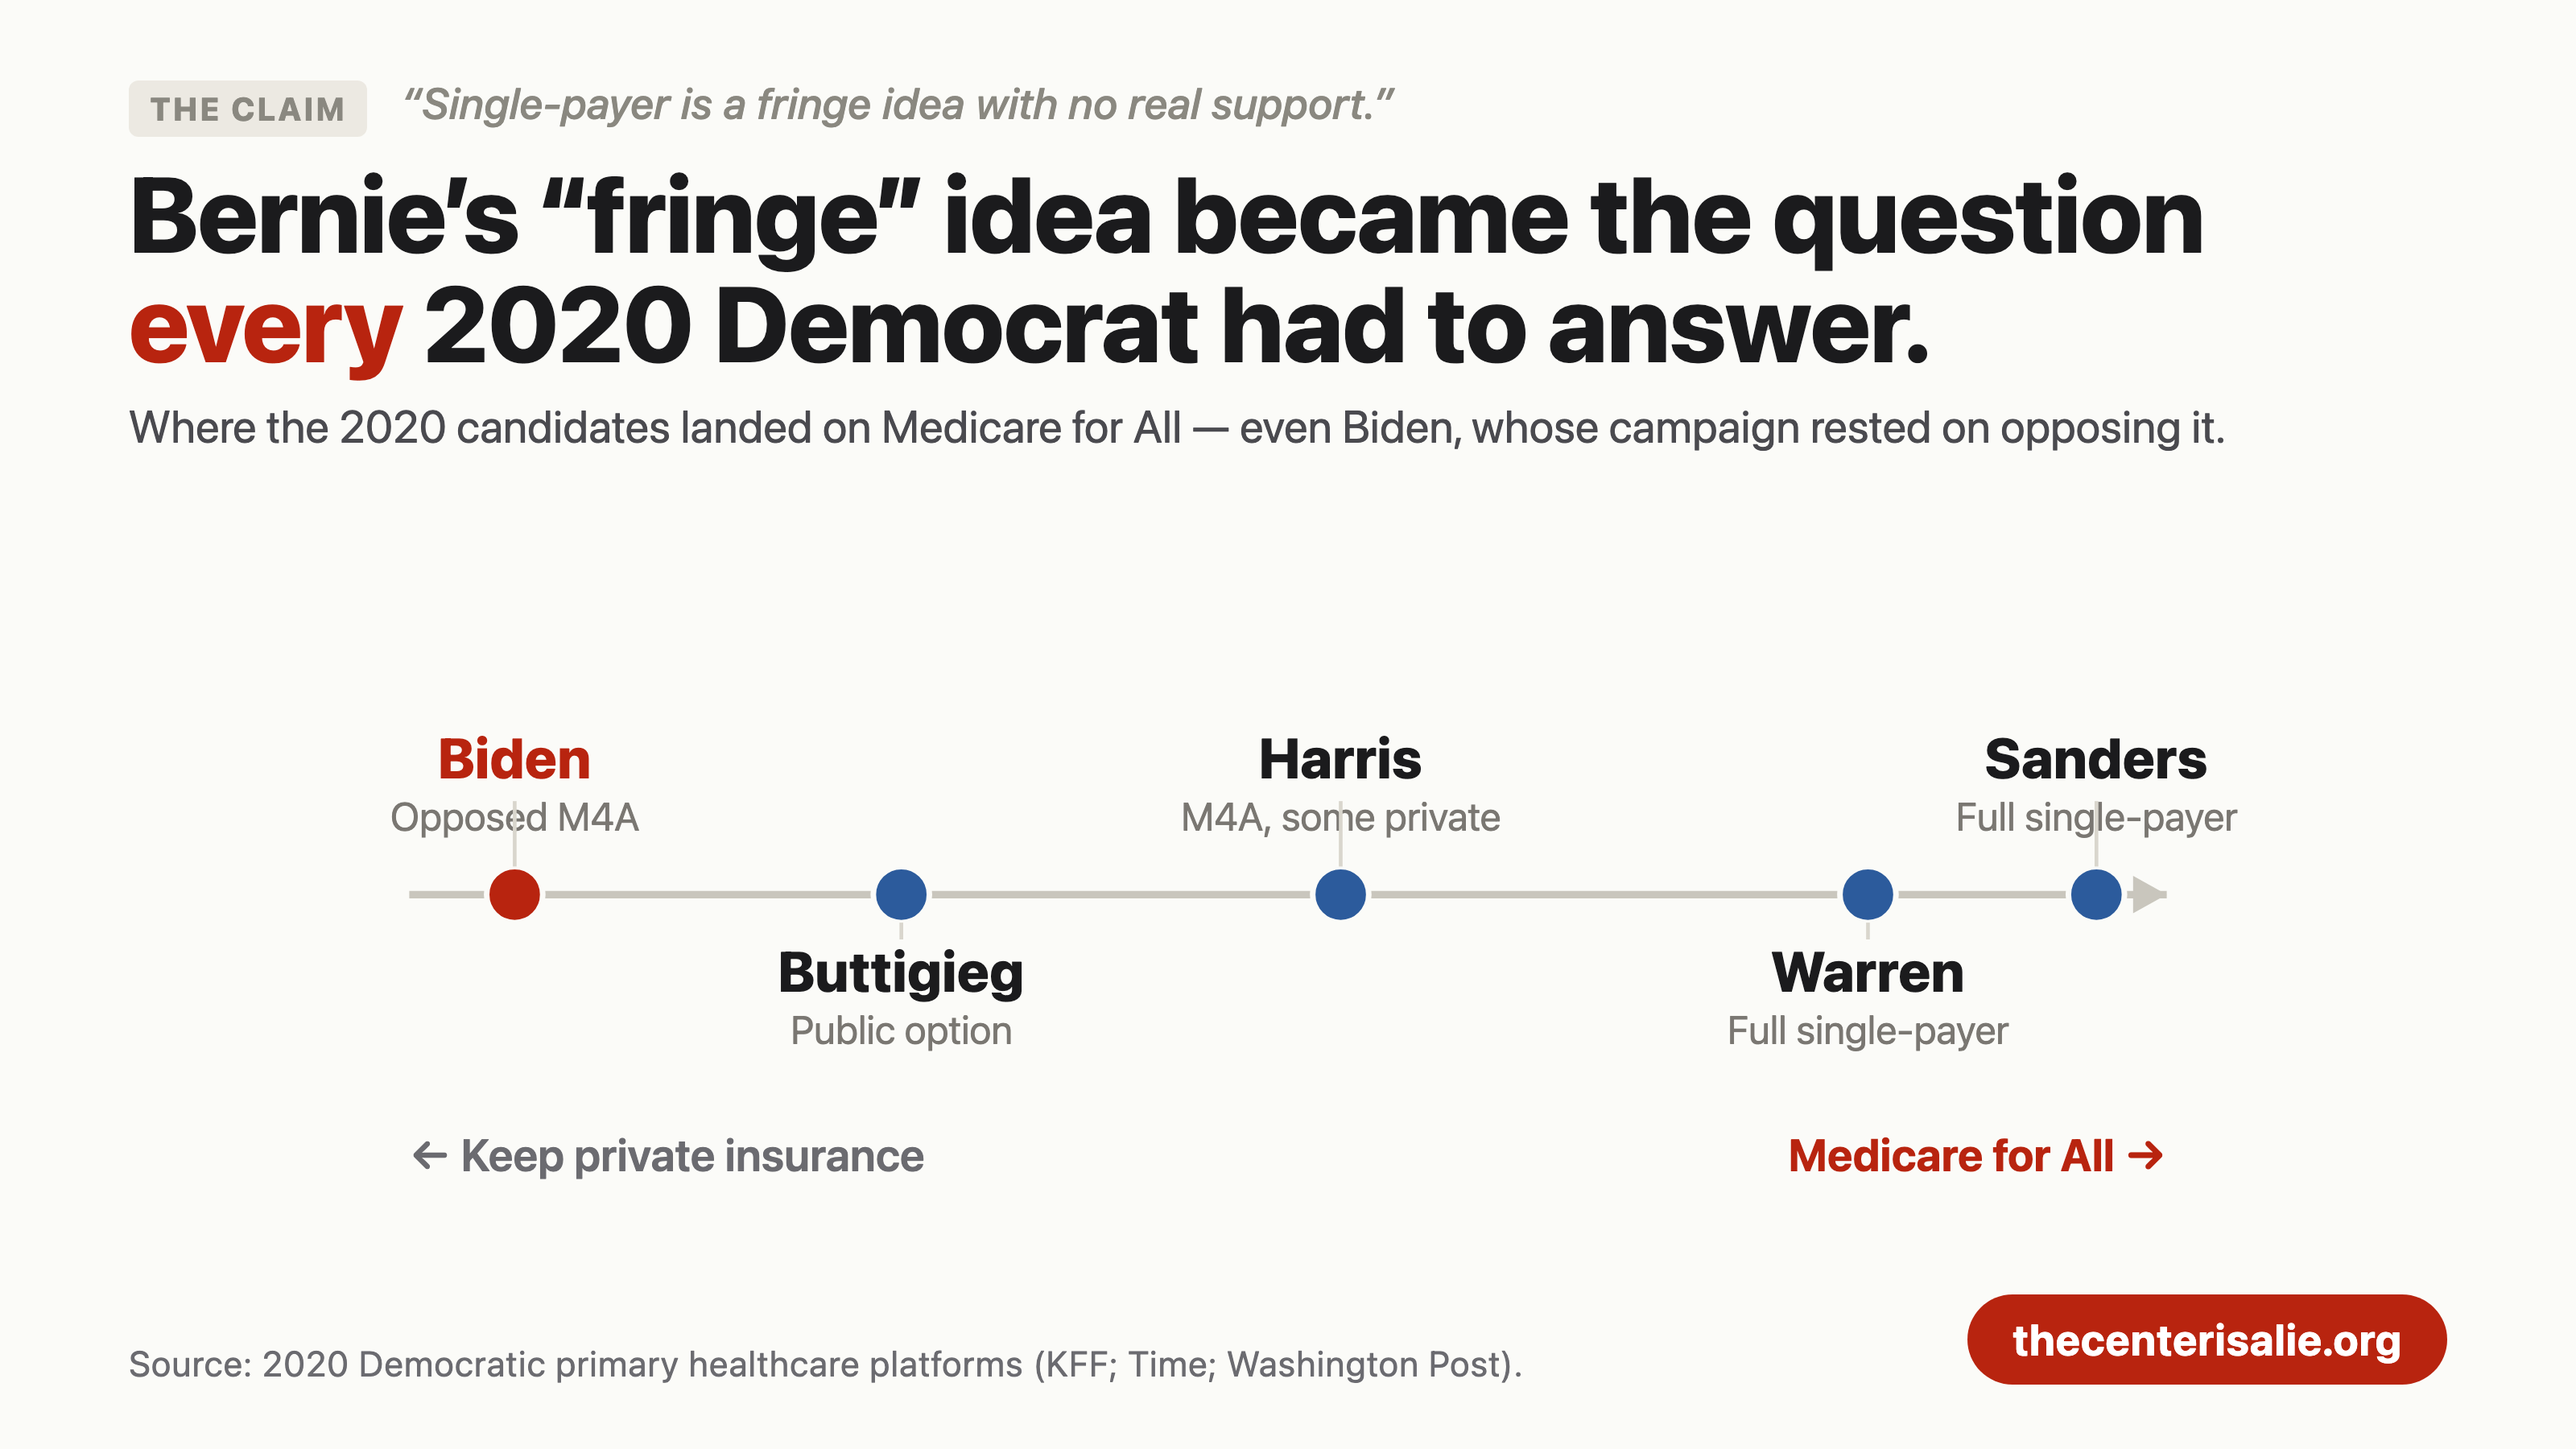
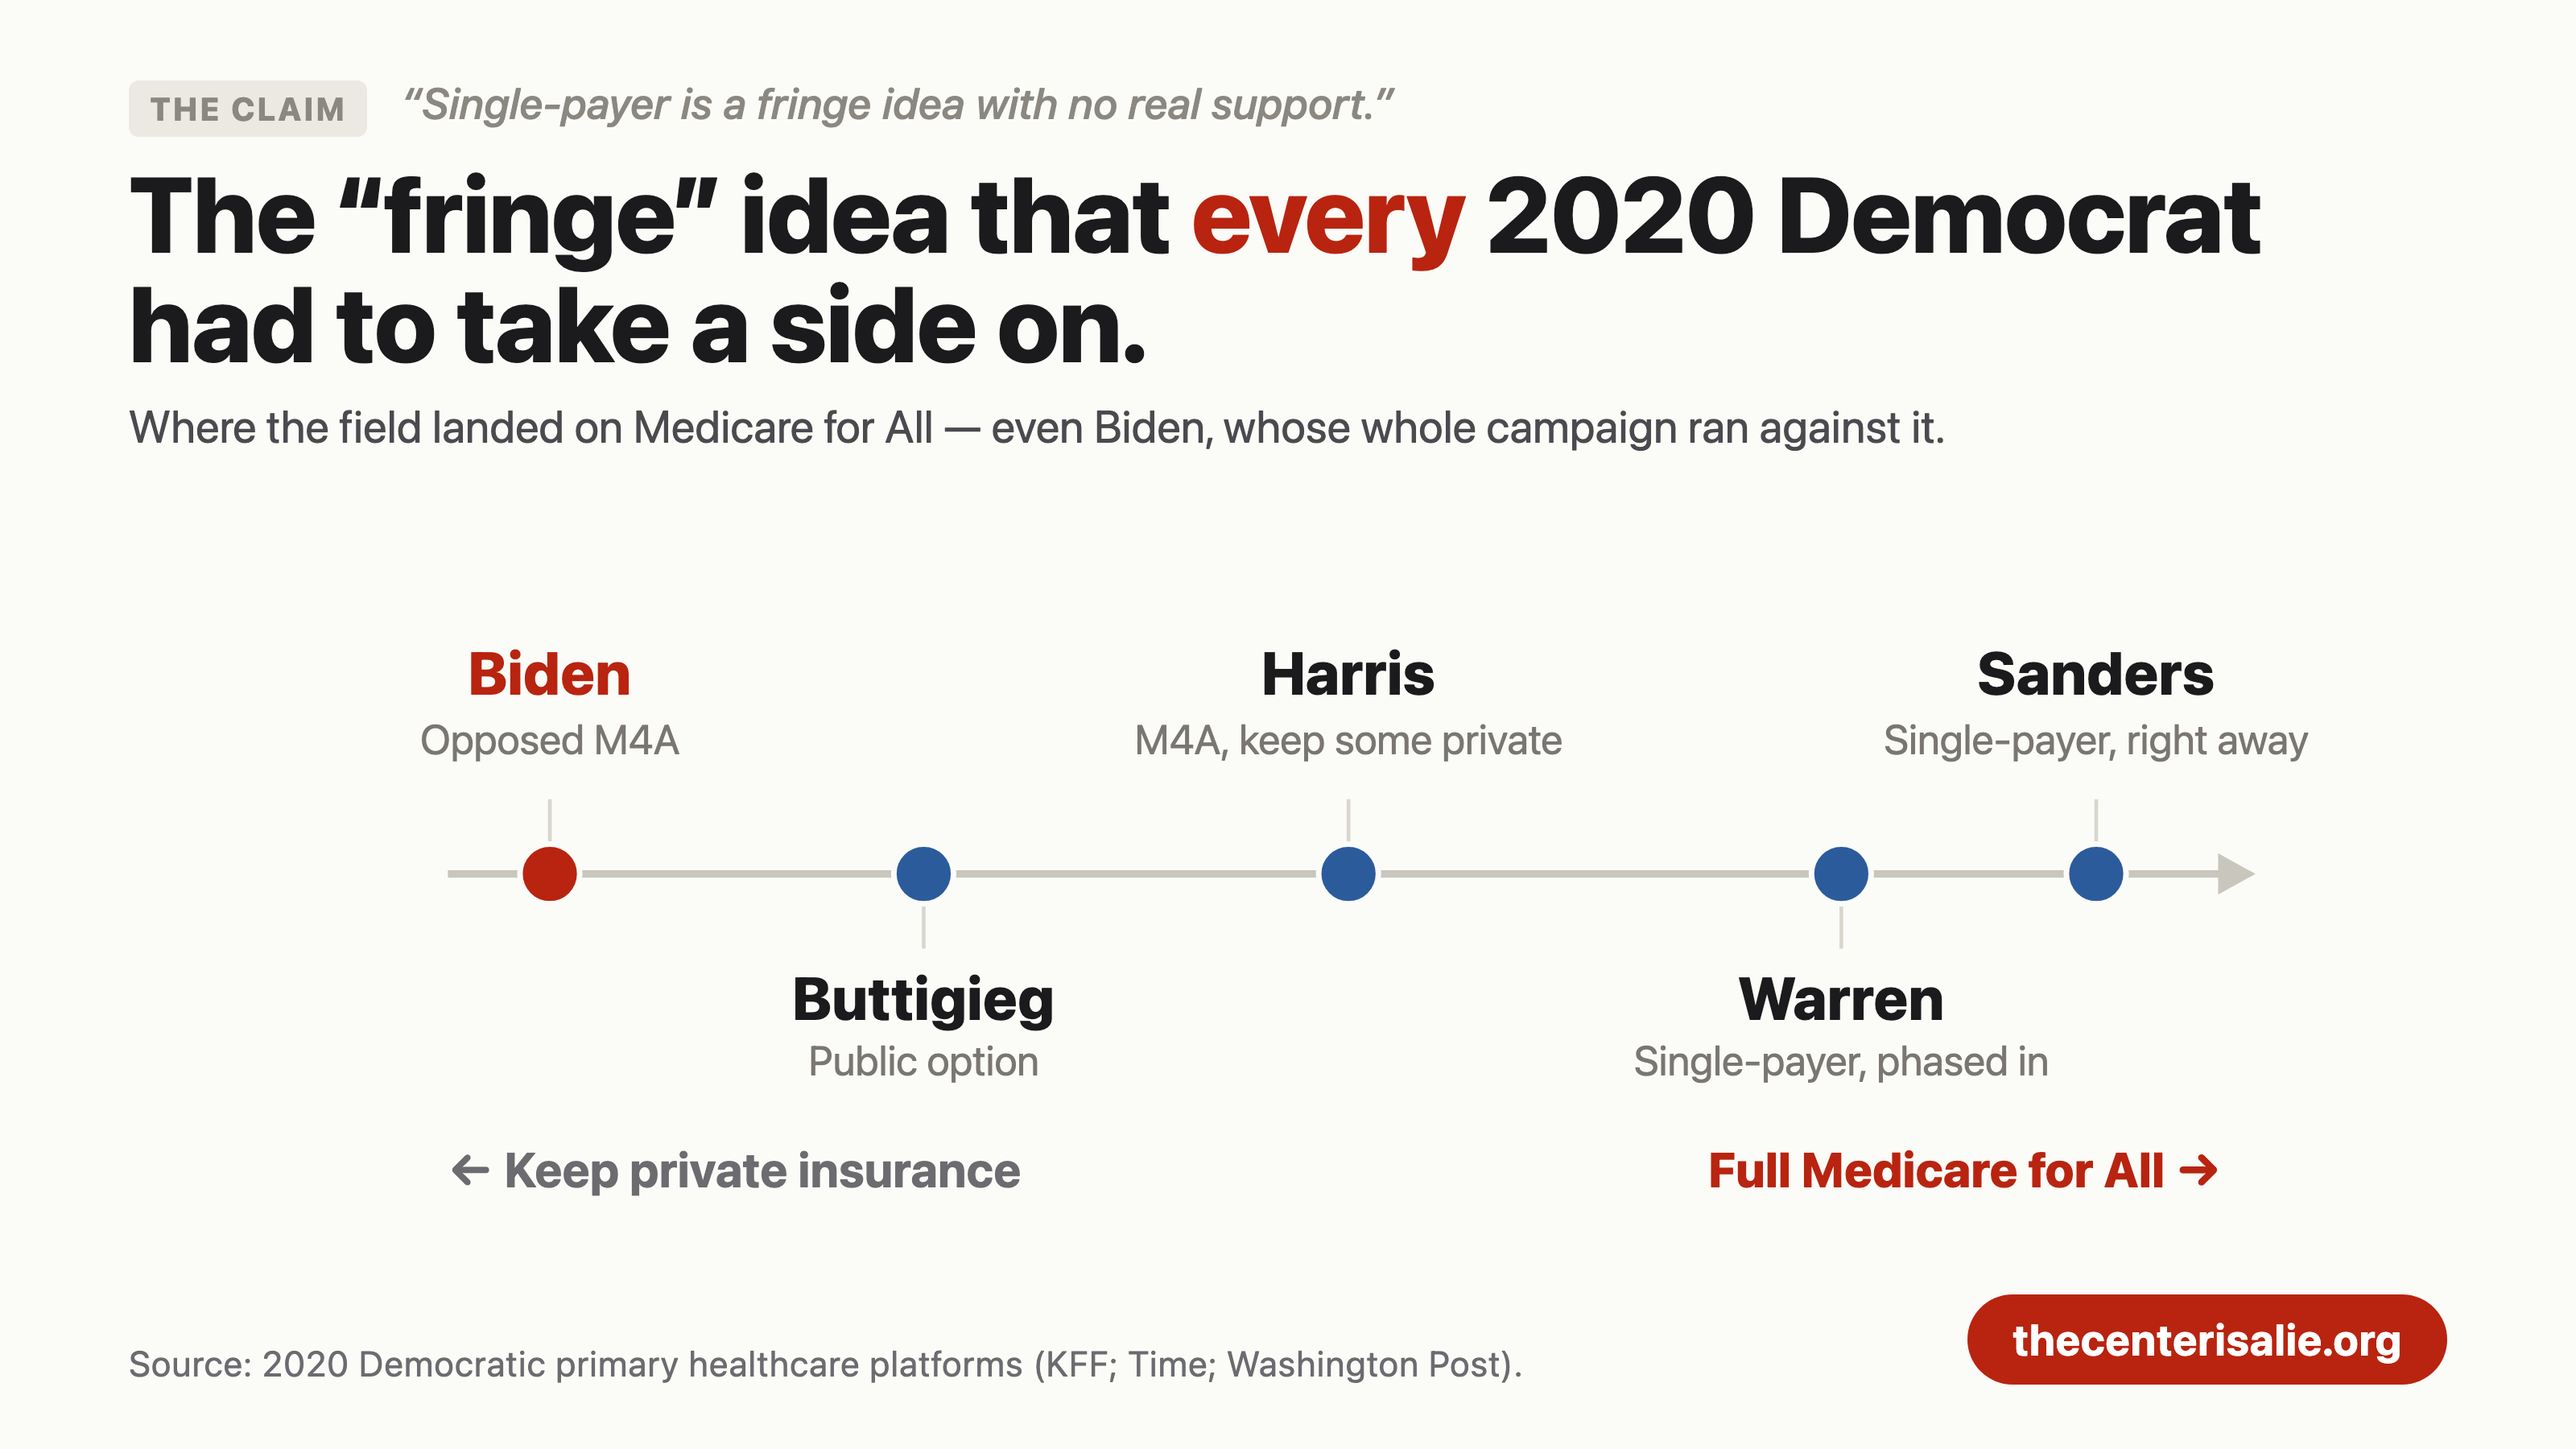
fix(og): rebuild m4a to fill frame, distinct Warren/Sanders labels
Identical 'Full single-payer' labels at different positions read as invented;
now 'phased in' vs 'right away'. Connector stubs no longer strike through
labels; arrow clears the Sanders dot; reframed title off the concession.

diff --git a/web/og-cards/chart-m4a.html b/web/og-cards/chart-m4a.html
@@ -3,11 +3,11 @@
 <body>
   <div class="chartcard">
     <div class="cc-claim"><span class="tag">The claim</span> &ldquo;Single-payer is a fringe idea with no real support.&rdquo;</div>
-    <div class="cc-title">Bernie&rsquo;s &ldquo;fringe&rdquo; idea became the question <span class="hl">every</span> 2020 Democrat had to answer.</div>
-    <div class="cc-sub">Where the 2020 candidates landed on Medicare for All &mdash; even Biden, whose campaign rested on opposing it.</div>
+    <div class="cc-title">The &ldquo;fringe&rdquo; idea that <span class="hl">every</span> 2020 Democrat had to take a side on.</div>
+    <div class="cc-sub">Where the field landed on Medicare for All &mdash; even Biden, whose whole campaign ran against it.</div>
 
-    <div class="cc-chart"><svg id="m4a" viewBox="0 0 1240 360" role="img"
-      aria-label="2020 Democrats on Medicare for All, from Biden (opposed) to Sanders and Warren (full single-payer)"></svg></div>
+    <div class="cc-chart"><svg id="m4a" viewBox="0 0 1240 449" role="img"
+      aria-label="2020 Democrats placed on a line from keeping private insurance to full Medicare for All, from Biden at the private end to Sanders at the single-payer end"></svg></div>
 
     <div class="cc-foot">
       <div class="cc-source">Source: 2020 Democratic primary healthcare platforms (KFF; Time; Washington Post).</div>
@@ -19,27 +19,32 @@
     const NS = 'http://www.w3.org/2000/svg';
     const svg = document.getElementById('m4a');
     const el = (t, a) => { const n = document.createElementNS(NS, t); for (const k in a) n.setAttribute(k, a[k]); return n; };
-    const X0 = 150, X1 = 1090, axisY = 190;
+    const txt = (a, s) => { const t = el('text', a); t.textContent = s; svg.appendChild(t); return t; };
+
+    const X0 = 170, X1 = 1080, axisY = 224;
     const px = (p) => X0 + p * (X1 - X0);
-    // axis
-    svg.appendChild(el('line', { x1: X0, y1: axisY, x2: X1, y2: axisY, stroke: '#c9c6bd', 'stroke-width': 4 }));
-    svg.appendChild(el('path', { d: `M ${X1} ${axisY} l -18 -10 l 0 20 z`, fill: '#c9c6bd' }));
-    const endL = el('text', { x: X0, y: axisY + 148, 'text-anchor': 'start', fill: '#6b6b70', 'font-size': 24, 'font-weight': 600 }); endL.textContent = '← Keep private insurance'; svg.appendChild(endL);
-    const endR = el('text', { x: X1, y: axisY + 148, 'text-anchor': 'end', fill: '#b8240f', 'font-size': 24, 'font-weight': 700 }); endR.textContent = 'Medicare for All →'; svg.appendChild(endR);
+
+    svg.appendChild(el('line', { x1: X0, y1: axisY, x2: X1 + 40, y2: axisY, stroke: '#c9c6bd', 'stroke-width': 4 }));
+    svg.appendChild(el('path', { d: `M ${X1 + 58} ${axisY} l -20 -11 l 0 22 z`, fill: '#c9c6bd' }));
+
+    txt({ x: X0, y: axisY + 168, 'text-anchor': 'start', fill: '#6b6b70', 'font-size': 26, 'font-weight': 700 }, '← Keep private insurance');
+    txt({ x: X1 + 40, y: axisY + 168, 'text-anchor': 'end', fill: '#b8240f', 'font-size': 26, 'font-weight': 800 }, 'Full Medicare for All →');
+
     const cands = [
       { p: 0.06, name: 'Biden', sub: 'Opposed M4A', up: true, hot: true },
       { p: 0.28, name: 'Buttigieg', sub: 'Public option', up: false },
-      { p: 0.53, name: 'Harris', sub: 'M4A, some private', up: true },
-      { p: 0.83, name: 'Warren', sub: 'Full single-payer', up: false },
-      { p: 0.96, name: 'Sanders', sub: 'Full single-payer', up: true },
+      { p: 0.53, name: 'Harris', sub: 'M4A, keep some private', up: true },
+      { p: 0.82, name: 'Warren', sub: 'Single-payer, phased in', up: false },
+      { p: 0.97, name: 'Sanders', sub: 'Single-payer, right away', up: true },
     ];
     cands.forEach((c) => {
       const x = px(c.p), col = c.hot ? '#b8240f' : '#2c5b9c';
-      svg.appendChild(el('circle', { cx: x, cy: axisY, r: 15, fill: col, stroke: '#fbfbf8', 'stroke-width': 3 }));
-      const ny = c.up ? axisY - 62 : axisY + 52, sy = c.up ? axisY - 34 : axisY + 80;
-      const nm = el('text', { x, y: ny, 'text-anchor': 'middle', fill: c.hot ? '#b8240f' : '#1b1b1d', 'font-size': 30, 'font-weight': 800 }); nm.textContent = c.name; svg.appendChild(nm);
-      const st = el('text', { x, y: sy, 'text-anchor': 'middle', fill: '#7a7772', 'font-size': 21 }); st.textContent = c.sub; svg.appendChild(st);
-      svg.appendChild(el('line', { x1: x, y1: c.up ? axisY - 15 : axisY + 15, x2: x, y2: c.up ? ny + 12 : axisY + 24, stroke: '#d9d6cd', 'stroke-width': 2 }));
+      // short connector stub only (never reaches the text)
+      svg.appendChild(el('line', { x1: x, y1: c.up ? axisY - 16 : axisY + 16, x2: x, y2: c.up ? axisY - 40 : axisY + 40, stroke: '#d9d6cd', 'stroke-width': 2 }));
+      svg.appendChild(el('circle', { cx: x, cy: axisY, r: 16, fill: col, stroke: '#fbfbf8', 'stroke-width': 3 }));
+      const ny = c.up ? axisY - 96 : axisY + 78, sy = c.up ? axisY - 64 : axisY + 108;
+      txt({ x, y: ny, 'text-anchor': 'middle', fill: c.hot ? '#b8240f' : '#1b1b1d', 'font-size': 32, 'font-weight': 800 }, c.name);
+      txt({ x, y: sy, 'text-anchor': 'middle', fill: '#7a7772', 'font-size': 22 }, c.sub);
     });
   </script>
 </body></html>
